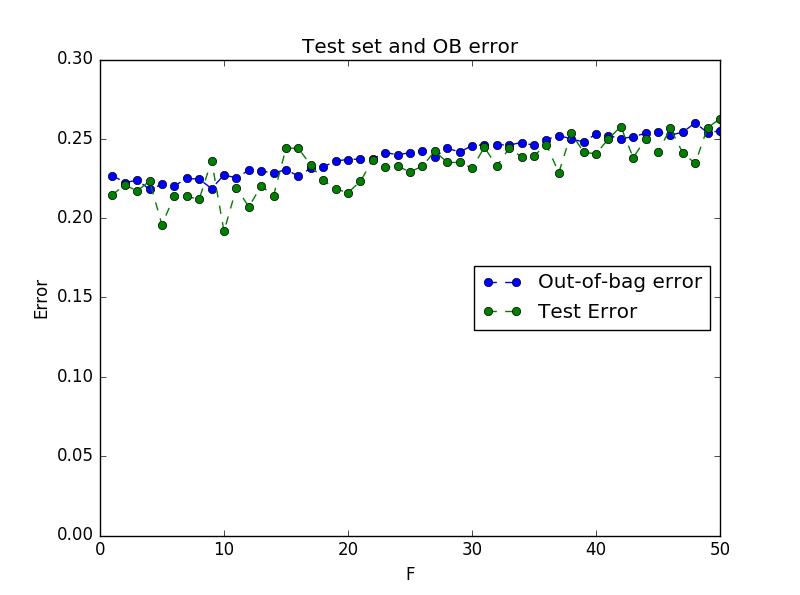
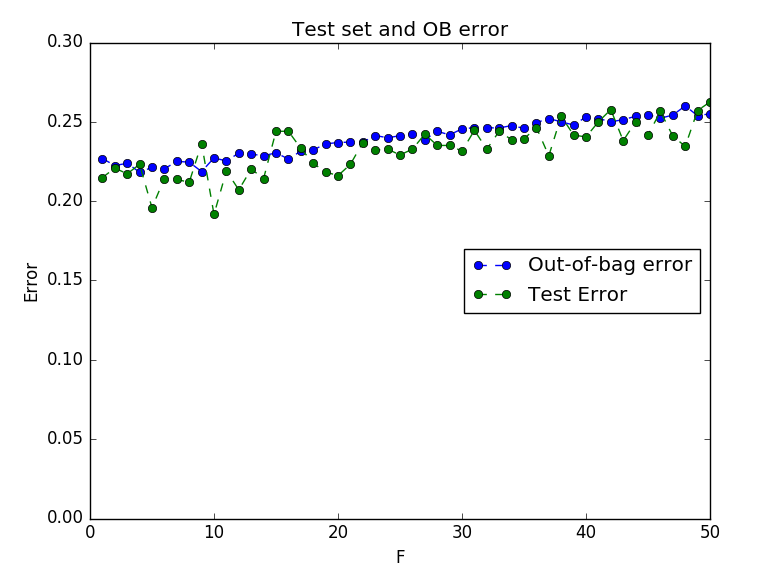
Update and polish up Readme with images and description

Changed region(s): [[0.0304, 0.0311, 0.9419, 0.9343], [0.5165, 0.9343, 0.5469, 0.9654]]

diff --git a/README.md b/README.md
@@ -1,2 +1,51 @@
-# RandomForest
-Project for Machine Learning Advanced Course. Implementation of random forest based on the paper by L. Breiman.
+ML Advanced Project: Reimplementation of the original "Random Forest" paper
+===================
+
+Authors
+---
+This repository is being developed as part of the course [Machine Learning, Advanced Course (DT2434)](https://www.kth.se/student/kurser/kurs/DD2434?l=en) at [KTH Royal Institute of Technology](http://kth.se), in the Autumn 16 P2 round.
+
+| Author               | GitHub                                            |
+|:---------------------|:--------------------------------------------------|
+| Diego Yus | [DYusL](https://github.com/DYusL)       |
+| Sugandh Sinha | [sug4ndh](https://github.com/sug4ndh) |
+| Hui Pang | [lnfc0218](https://github.com/lnfc0218) |
+| Oktay Bahceci |  |
+
+
+
+Description
+---
+Random forest is a classical ensemble method for classification and regression. It is a strong classifier consisting of a set of relatively weak decision trees, where each tree is sampled from i.i.d. random variables and the output can be produced as the majority vote for classification. 
+This project re-implements this algorithm from scratch following the classic paper [*Random Forest* by Breiman (2001)](https://www.stat.berkeley.edu/~breiman/randomforest2001.pdf) using the same methodology, parameters values and datasets.
+
+Random feature selection is used to determine how many features to select.
+Part of the results of the paper are reproduced and compared to those of the implementation.
+
+
+Dataset
+---
+A representative subset of all the datasets used in the paper was selected for the experiments. The subset comprises the datasets: *Glass, Breast Cancer, Diabetes, Sonar, Vehicle* and _Votes_ from the [UCI repository](https://archive.ics.uci.edu/ml/index.php), which were selected because they include both categorical and numerical values as well as binary and multiple-class classification tasks.
+
+
+Results
+---
+The implementation is tested by comparing the results on different magnitudes:
+ like test error, out-of-bag error, strength, correlation, and their relation 
+ to error rates to those of the original paper using the same methodology and 
+ parameter values for the same datasets.
+For demonstration purposes, the implementation and paper results on two different
+ magnitudes in the sonar datasetare shown:
+ 
+Comparison on the test and out-of-bag error:
+
+![Breiman paper](Images/error_sonar_paper2_resized.png "Paper") ![Our implementation](Images/Error_F_Sonar2_aux.png "Our implementation")
+
+Comparison on the strength and correlation:
+
+![Breiman paper](Images/Strength_Sonar_Paper2_resized.png "Strength (Paper)") ![Our Implementation](Images/Strength_color_swapped_resized.png "Our implementation")
+
+Both curves exhibit the same behavior but differ in an offset, which probably
+ shows a methodological error (most likely in the node splitting methodology,
+  which was unclear in the paper), but their similarity confirms the conceptual
+   correctness of the implementation.
